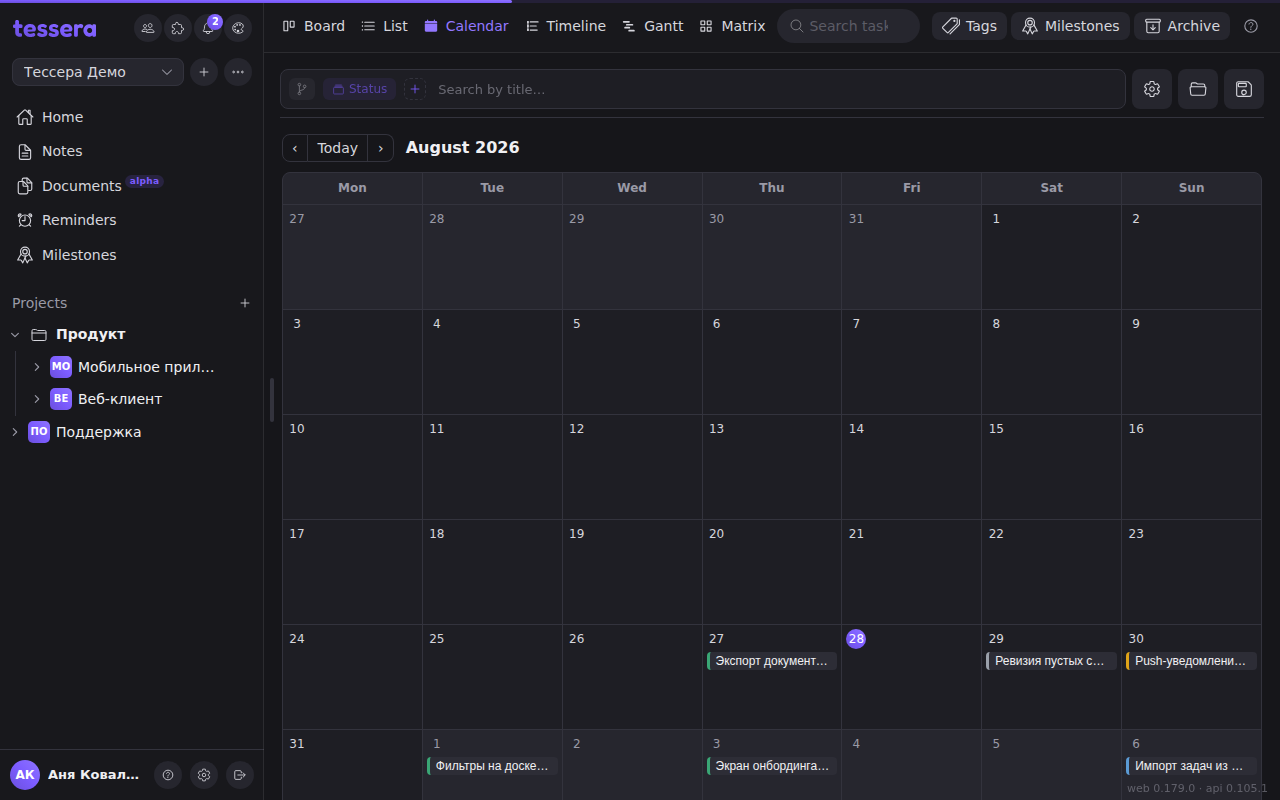
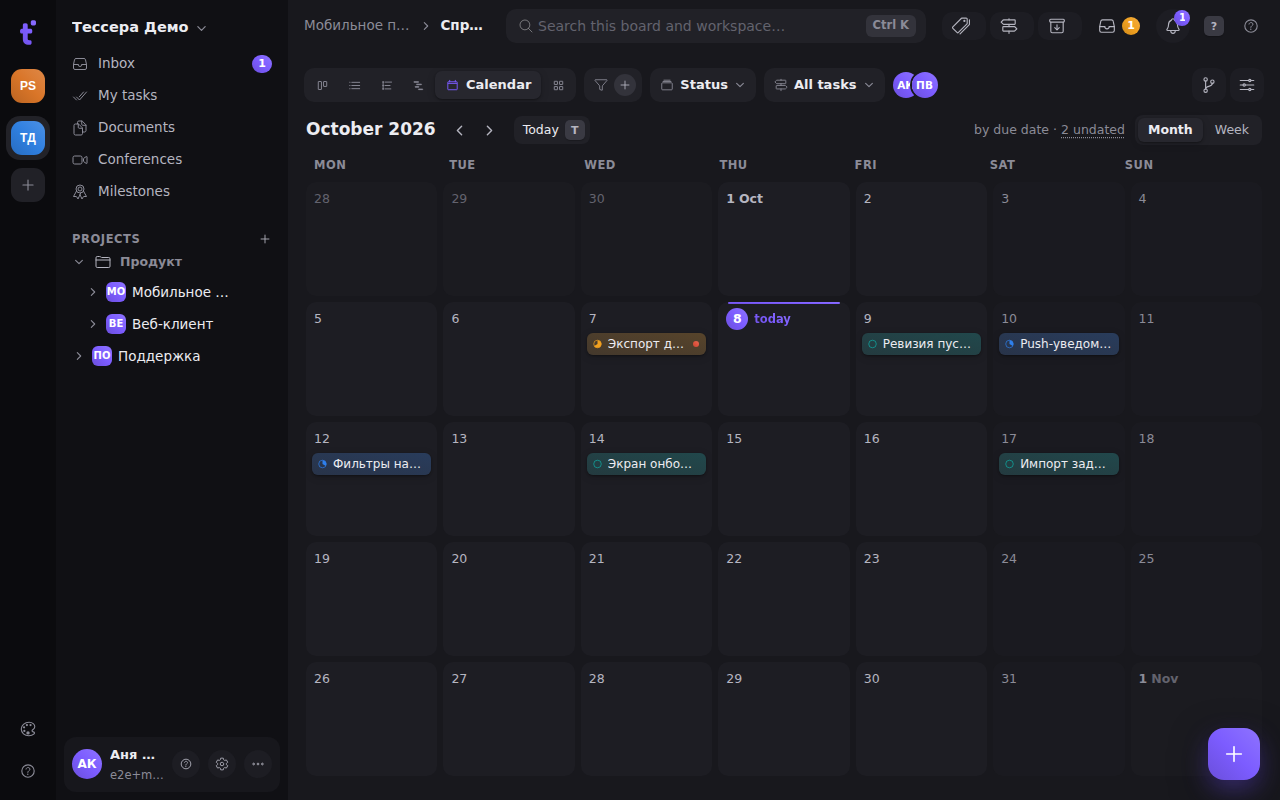
docs(help): виды доски v2 — список, календарь, матрица, шкала таймлайна; скриншоты (#2973, #3009)
Статьи «Визуализации», «Вид доски» и «Представления доски» (ru/en): группы и клавиши
списка, режимы календаря и перенос срока, ручной квадрант матрицы, «Шкала» с кварталом и
переключателями. Скриншоты видов пересняты (ru/en, светлая/тёмная).

diff --git a/docs/help/boards/board-layouts.en.md b/docs/help/boards/board-layouts.en.md
@@ -3,7 +3,7 @@ title: Visualizations: list, calendar, timeline, Gantt, matrix
 category: Boards
 order: 25
 keywords: visualizations, view, list, calendar, timeline, gantt, chart, matrix, eisenhower, dependencies, zoom
-updated: 2026-10-07
+updated: 2026-10-08
 ---
 
 The same board tasks can be looked at in six ways: Kanban, List, Timeline, Gantt, Calendar and Matrix. The switcher sits on the board bar — six equal segments, from the keyboard `V`, then `1`–`6`; when room is short the segments stay icons and only the chosen one keeps its caption. The chosen view is remembered for that board.
@@ -20,25 +20,52 @@ The Kanban — columns and cards, the default layout. It's covered by [The board
 
 ![The board as a list](../assets/board-list-light.png)
 
-A flat table: group headers (the same ones the Kanban shows as columns, with a coloured dot and a counter) and rows of tasks under each.
+Tasks as rows, laid out in **groups** — the same ones the Kanban shows as columns: statuses, tags or milestones, whatever the grouping is. A group has a header with the status glyph, a counter (“4 (7)” — tasks, and with their subtasks) and the sum of estimates, and a backdrop tinted like the column under it. **Clicking the header folds the group**; the list keeps its own folded groups, the Kanban isn't affected.
 
-A row carries the title, the priority, the due date, the assignees and the tags. An overdue date is highlighted, completed tasks are dimmed. An empty group is marked “— empty —”.
+A row carries the number, the title, the priority, the due date, the assignees, the estimate and the tags. An overdue date is red, completed tasks are struck through. The circle on the left completes the task (or reopens it). The field columns can be resized — drag the edge of a column caption; a double click on the edge brings the default width back. The widths are remembered with the rest of the board's settings and saved in a view.
 
-Clicking a row opens the task; right-clicking gives the same context menu the card has (change column, priority, due date, archive).
+Clicking a row opens the task; right-clicking gives the same context menu the card has. A double click on the title renames it right in the row. “＋ Task” in a group header creates a task in that group (`↵` keeps the field open for the next one).
 
-The list is good for bulk triage: three times as many tasks fit on a screen as on the Kanban, and comparing due dates of neighbouring rows by eye is easy.
+**From the keyboard** the list is triaged without the mouse:
+
+| Key | Action |
+|---|---|
+| `↑` `↓` | through the rows and group headers |
+| `⇧↑` `⇧↓` | select several rows (with the mouse — ⇧-click or ⌘-click) |
+| `←` `→` | fold / unfold the group |
+| `↵` | open the task (on a header — fold the group) |
+| `F2` | rename in place |
+| `E`, `P` `0`–`4`, `⌘←` `⌘→` | complete, priority, into the next group — for every selected row at once |
+| `P` `D` `A` `L` `S` | priority, due date, assignees, tags, status — as on the board |
+| `⌘↑` `⌘↓` | move up / down in the column |
+| `C` | a new task in the group |
+
+`⌘↑` `⌘↓` change the order only when grouped by status and with no sort — the same order the Kanban cards have. The selection frame and the hint above the row show only while you work from the keyboard.
+
+On a phone the rows are taller: the title, the number and due date under it, the assignee on the right; the field columns aren't shown.
+
+The list draws only the rows in view, so a board of several hundred tasks scrolls smoothly too.
 
 ## Calendar
 
 ![The board as a calendar](../assets/board-calendar-light.png)
 
-A month grid, the week starting on Monday. A task lands in the cell of **its due date**; today is highlighted, arrows page through the months, and the “Today” button returns to the current one.
+A task sits in the cell of **its due date** as a pill in the colour of its status; a red dot means the due date has passed. Today is marked with a gradient. The first day of the week follows the settings (Localization), month and weekday names come from the interface language.
 
-Tasks **without a due date** gather in a separate block under the grid — the quickest way to see what you haven't scheduled yet.
+Two modes, switched above the grid on the right:
 
-Clicking a task opens it, right-clicking gives the context menu. The due date is changed in the task itself: dragging cards between calendar cells isn't provided — the layout follows the due date rather than setting it.
+- **Month** — the overview. A cell holds up to three tasks, the rest are “+N more”; clicking it opens the whole day as a list.
+- **Week** — planning: seven full-height days, every task of the day, the timed ones on top, in order.
 
-Month and weekday names come from the interface language, while the first day of the week is Monday regardless of language.
+The chosen mode is remembered for the board and saved in a view.
+
+**Move a due date by dragging.** Drag a task onto another day: the cell lights up and shows the new date, which is saved on release. A date-only due stays date-only, a timed one keeps its time, and the start date (if there is one) moves along with it. Tasks **without a due date** are behind the “N undated” link above the grid: open the list and drag a task onto a day — that gives it a due date.
+
+The “＋” in a cell (shown on hover) creates a task due that day.
+
+**From the keyboard:** `T` — today, arrows — through the days, `⇧←` `⇧→` — a month (in Week mode — a week) back and forth, `C` — a task on the picked day. `↵` steps into the tasks of the picked day: `↑` `↓` between them, `↵` opens, `⇧←` `⇧→` move the due date by a day, `E` `P` `D` `A` `L` `S` — as on the board, `Esc` — back to the day.
+
+On a phone the month is shown as dots in the status colours; tapping a day opens its tasks as a list.
 
 ## Timeline
 
@@ -48,8 +75,8 @@ A horizontal time axis, with a task as a bar from its start date to its due date
 
 The controls above the chart:
 
-- **Today** — bring the axis back to the current date; the vertical “today” line is always visible.
-- **`−` and `+`** — the axis zoom, from dense to detailed.
+- **Today** — bring the axis back to the current date.
+- **The scale** — Day, Week, Month or Quarter; `−` and `+` (or the wheel with ⌘/Ctrl) zoom smoothly, and the scale moves on by itself.
 - **The arrow** — collapse the left column of task names, giving the whole width to the chart.
 - On the right — counters: how many tasks are overdue and how many have no dates.
 
@@ -75,19 +102,21 @@ The link types themselves are covered in the article on task links.
 
 ![The board as an Eisenhower matrix](../assets/board-matrix-light.png)
 
-A 2×2 square: the columns are “Urgent” and “Not urgent”, the rows “Important” and “Not important”. Hence four quadrants, each with a hint:
+A 2×2 square: the columns are “Urgent” and “Not urgent”, the rows “Important” and “Not important”. Hence four quadrants:
 
 | Quadrant | What it means |
 |---|---|
-| Urgent and important | Do it now |
-| Important, not urgent | Schedule it |
-| Urgent, not important | Delegate it |
-| Neither urgent nor important | It can wait |
+| Do | urgent and important |
+| Schedule | important, not urgent |
+| Delegate | urgent, not important |
+| Later | neither urgent nor important |
 
-**Tasks place themselves.** A task counts as important when its priority is high or urgent; as urgent when its due date falls within the next 3 days or has already passed. Both thresholds are changed in the Board view panel, section “Matrix”. That is, the matrix doesn't ask you to fill in two more fields: it reads the priority and the due date the tasks already have.
+**Tasks sort themselves.** A task with high or urgent priority counts as important; one due within the next 3 days or already overdue counts as urgent. Both thresholds are set in the Board view panel, the Matrix section, and the axis captions name them (“Urgent · due ≤ 3 days”). The matrix needs no extra fields: it reads the priority and due date the tasks already have.
 
-The automatic placement can be overruled: **drag a card into another quadrant** and it is pinned there. Such a task gets a “by hand” mark; clicking the mark returns it to its automatic place.
+The automation can be overruled: **drag a card into another quadrant** and it stays there. Such a card gets a “by hand” mark; clicking it puts the task back in its automatic place.
 
-Each quadrant has a **＋** button for quickly creating a task: it is created in the board's first column and pinned to that quadrant right away.
+Cards in the matrix are compact by default, two to a row; the size is changed in the Board view panel, the Cards section. The **“＋”** button in a quadrant header (on hover) creates a task: it goes into the board's first column and is pinned to that quadrant straight away.
 
-**Completed tasks don't reach the matrix** — it's a tool for triaging what's still ahead, not a report on what's done.
+**From the keyboard:** the arrows walk the cards and cross into the next quadrant, `↵` opens, `E` `P` `D` `A` `L` `S` — as on the board, `⌘` + an arrow pins the card into the quadrant that way, `⌫` gives a pinned card back to its automatic place, `C` — a new task in the quadrant.
+
+**Completed tasks don't go into the matrix** — it's a tool for triaging what's ahead, not a report on what's done.

diff --git a/docs/help/boards/board-customize.md b/docs/help/boards/board-customize.md
@@ -3,7 +3,7 @@ title: Настройка вида доски
 category: Доски
 order: 23
 keywords: вид доски, настройка, кастомизация, панель, размер карточек, поля, стопкой, пустые поля, шкала, матрица, пороги, иконка доски, цвет доски, сворачивание
-updated: 2026-10-07
+updated: 2026-10-08
 ---
 
 Кнопка-ползунки справа в панели доски (или клавиша `⇧V`, или команда палитры «Вид доски») открывает панель **«Вид доски»**. Она встаёт справа внутри доски, под панелью с чипами: доска сдвигается и уступает ей место, ничего не перекрывается. В панели собрано всё, что относится к доске: сохранённые представления, вид карточек, группировка и фильтры, колонки, название и значок доски.
@@ -39,7 +39,16 @@ updated: 2026-10-07
 
 ## Шкала (таймлайн и Гант)
 
-Масштаб — «Дни», «Недели», «Месяцы» (то же, что сегменты в панели доски), переключатель **«Показать колонку задач»**, счётчики «просрочено / связи / без дат» и подсказка о том, как тянуть зависимость. Масштаб «Кварталы» и переключатели подложки выходных, линии «сегодня», прогресса, связей и задач без сроков пока помечены «скоро».
+Шкала — «День», «Неделя», «Месяц» или «Квартал» (то же, что сегменты в панели доски); на «Квартале» над месяцами подписаны кварталы. Ниже — переключатели:
+
+- **«Показать колонку задач»** — левая колонка с названиями;
+- **«Выходные подложкой»** — затемнённые субботы и воскресенья;
+- **«Линия „сегодня“»** — вертикаль и подсветка текущего дня;
+- **«Прогресс внутри полосы»** — линия выполненных подзадач по низу полосы;
+- **«Связи между задачами»** — только на Ганте: стрелки зависимостей и ручка, которой их тянут;
+- **«Задачи без сроков внизу»** — блок задач без дат под диаграммой.
+
+Шкала и переключатели запоминаются для доски и сохраняются в представлении; если колёсиком уехать на другую шкалу, представление отметится «изменено». Ещё в разделе — счётчики «просрочено / связи / без дат» и подсказка о том, как тянуть зависимость.
 
 ## Матрица
 
@@ -64,4 +73,4 @@ updated: 2026-10-07
 
 ## Что из этого попадает в представление
 
-Всё, что настроено в панели, кроме раздела «Доска», — вид, группировка, сортировки, фильтры, размер карточек и их поля, сворачивание колонок, пороги матрицы — сохраняется в представление доски. Название, значок и цвет — свойства самой доски, они одинаковы для всех и от представления не зависят.
+Всё, что настроено в панели, кроме раздела «Доска», — вид, группировка, сортировки, фильтры, размер карточек и их поля, сворачивание колонок, пороги матрицы, шкала таймлайна, а также ширины колонок списка и режим календаря — сохраняется в представление доски. Название, значок и цвет — свойства самой доски, они одинаковы для всех и от представления не зависят.

diff --git a/docs/help/boards/board-saved-views.md b/docs/help/boards/board-saved-views.md
@@ -3,7 +3,7 @@ title: Представления доски
 category: Доски
 order: 24
 keywords: представления, сохранить, обновить, сбросить, изменено, по умолчанию, звезда, общие, личные, переименовать, порядок, удалить
-updated: 2026-10-07
+updated: 2026-10-08
 ---
 
 Собранная комбинация вида, группировки, сортировок, фильтров и настроек карточек — это **представление**. Его можно назвать и сохранить, чтобы возвращаться к нему одним кликом, а не собирать чипы заново.
@@ -22,7 +22,8 @@ updated: 2026-10-07
 - все фильтры и раскрытие подзадач;
 - какие колонки свёрнуты и включено ли автосворачивание пустых;
 - размер карточек, «Стопкой», «Показывать пустые» и видимость каждого поля;
-- пороги матрицы.
+- пороги матрицы;
+- ширины колонок списка, режим календаря (месяц или неделя), шкалу и переключатели таймлайна и Ганта.
 
 Не сохраняются **текст в поле поиска** (это ваш сиюминутный запрос), **этап** и **архив** — это то, где вы находитесь, а не то, как смотрите.
 

diff --git a/docs/help/boards/board-saved-views.en.md b/docs/help/boards/board-saved-views.en.md
@@ -3,7 +3,7 @@ title: Board views
 category: Boards
 order: 24
 keywords: saved views, save, update, reset, changed, default, star, shared, personal, rename, order, delete
-updated: 2026-10-07
+updated: 2026-10-08
 ---
 
 A combination of view, grouping, sorting, filters and card settings you have put together is a **saved view**. You can name and save it to come back to it in one click instead of assembling the chips again.
@@ -22,7 +22,8 @@ A saved view remembers how you look at the board:
 - every filter, and whether subtasks are expanded;
 - which columns are collapsed and whether empty ones collapse automatically;
 - the card size, “Stacked”, “Show empty” and the visibility of each field;
-- the matrix thresholds.
+- the matrix thresholds;
+- the list's column widths, the calendar mode (month or week), the scale and the switches of the timeline and the Gantt.
 
 Not saved are **the text in the search field** (that is your query of the moment), **the milestone** and **the archive** — that is where you are, not how you look.
 
